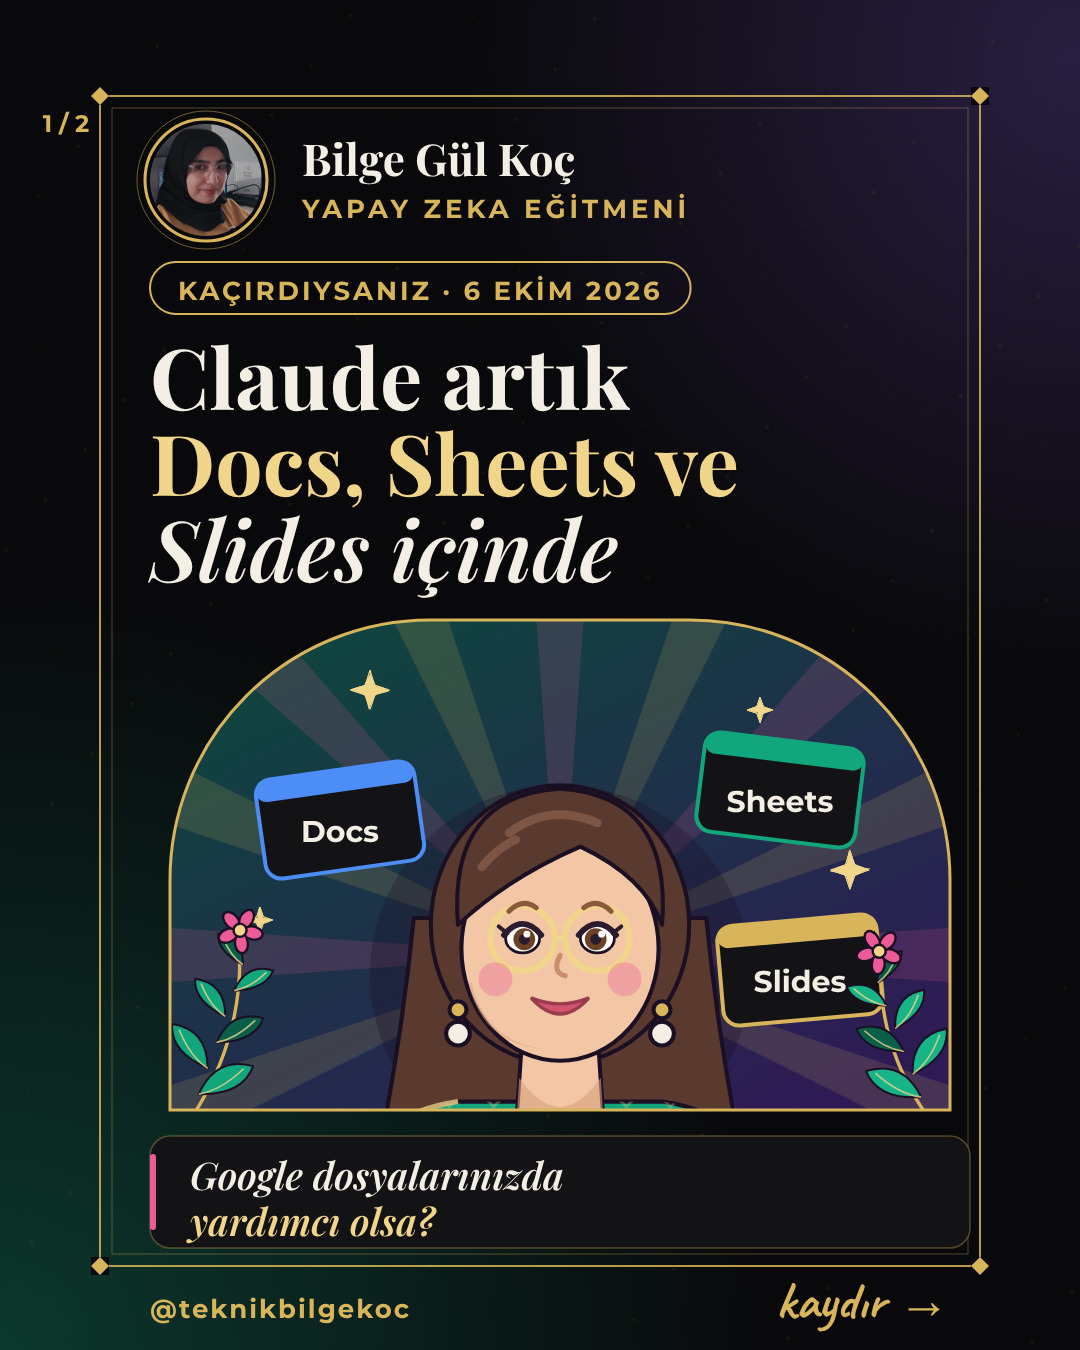
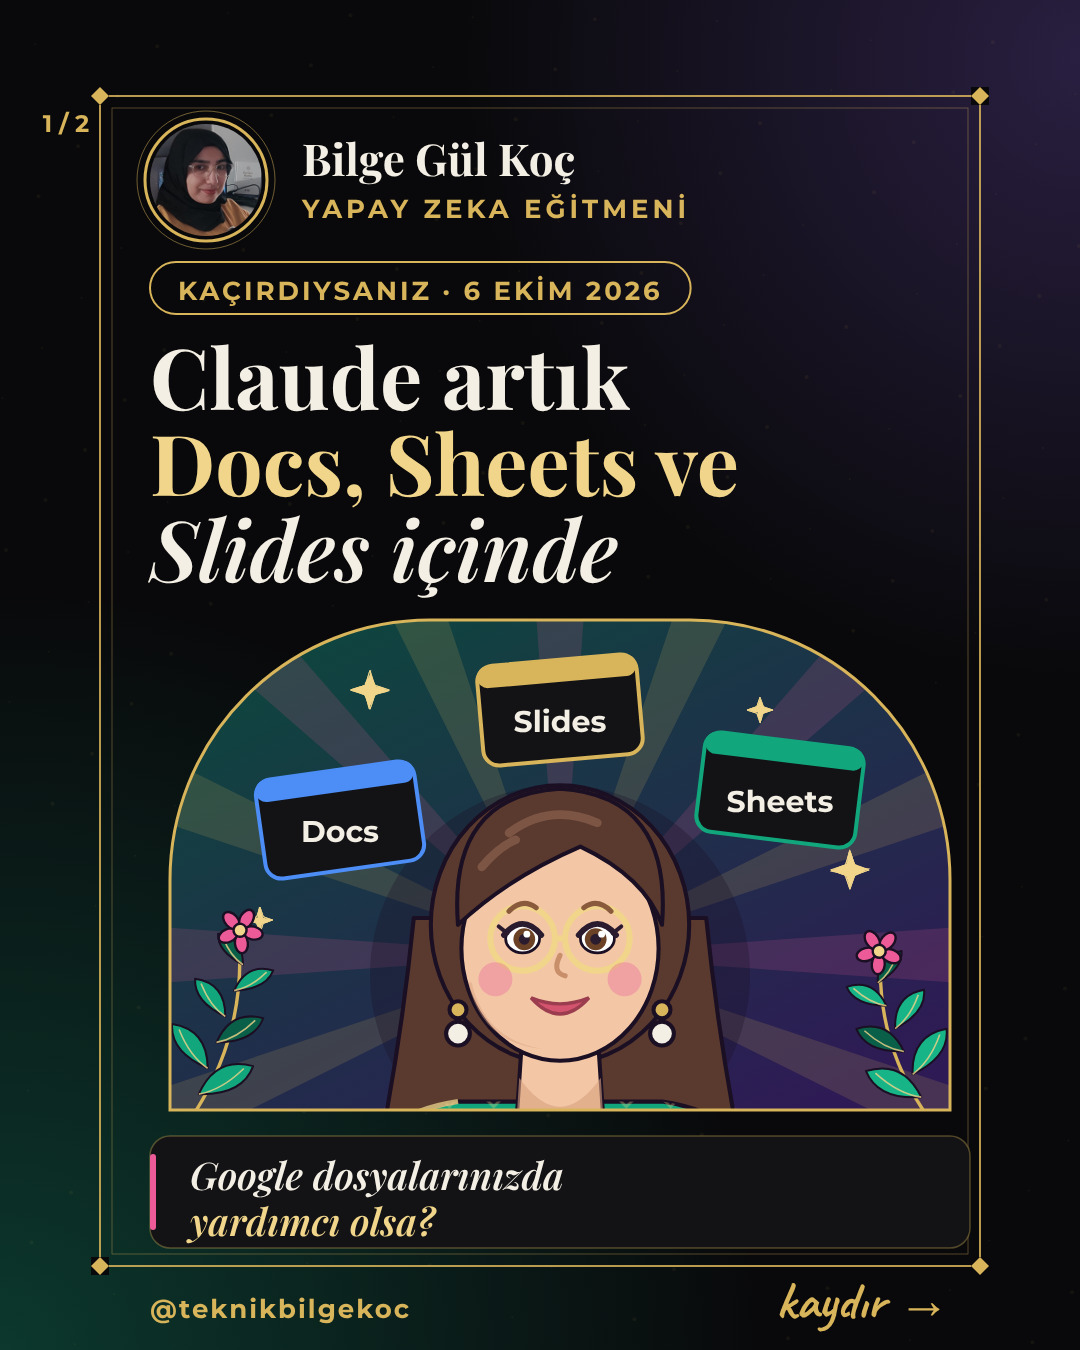
12 Ekim v2: Slides etiketi konumu düzeltildi (taslak, yayınlanmadı)
Claude-Session: https://claude.ai/code/session_013cfyo3RWBSu7N5CwDk35tK

Changed region(s): [[0.6417, 0.6533, 0.825, 0.7778], [0.4278, 0.4667, 0.6111, 0.5911]]

diff --git a/2026-10-12-v2/s1.js b/2026-10-12-v2/s1.js
@@ -9,7 +9,7 @@ async function build() {
 
   sahneTek(170, 620, 780, 490, { figur: 'kadin', tip: 'sacli', zemin: 'zumrut', halo: 'gunes', olcek: 1.7, dy: 90,
     ek: (cx, cy, k) => {
-      [['Docs', '#4C8DF6', k.x + 90, k.y + 150], ['Sheets', C.emerald, k.x + k.w - 250, k.y + 120], ['Slides', C.gold, k.x + k.w - 230, k.y + 300]].forEach(([n, c, px, py], i) => {
+      [['Docs', '#4C8DF6', k.x + 90, k.y + 150], ['Sheets', C.emerald, k.x + k.w - 250, k.y + 120], ['Slides', C.gold, k.x + k.w / 2 - 80, k.y + 40]].forEach(([n, c, px, py], i) => {
         const gg = g({ transform: `rotate(${[-8, 7, -5][i]} ${px + 80} ${py + 50})` });
         el('rect', { x: px, y: py, width: 160, height: 100, rx: 16, fill: '#131316', stroke: c, 'stroke-width': 4 }, gg);
         el('rect', { x: px, y: py, width: 160, height: 22, rx: 11, fill: c }, gg);
